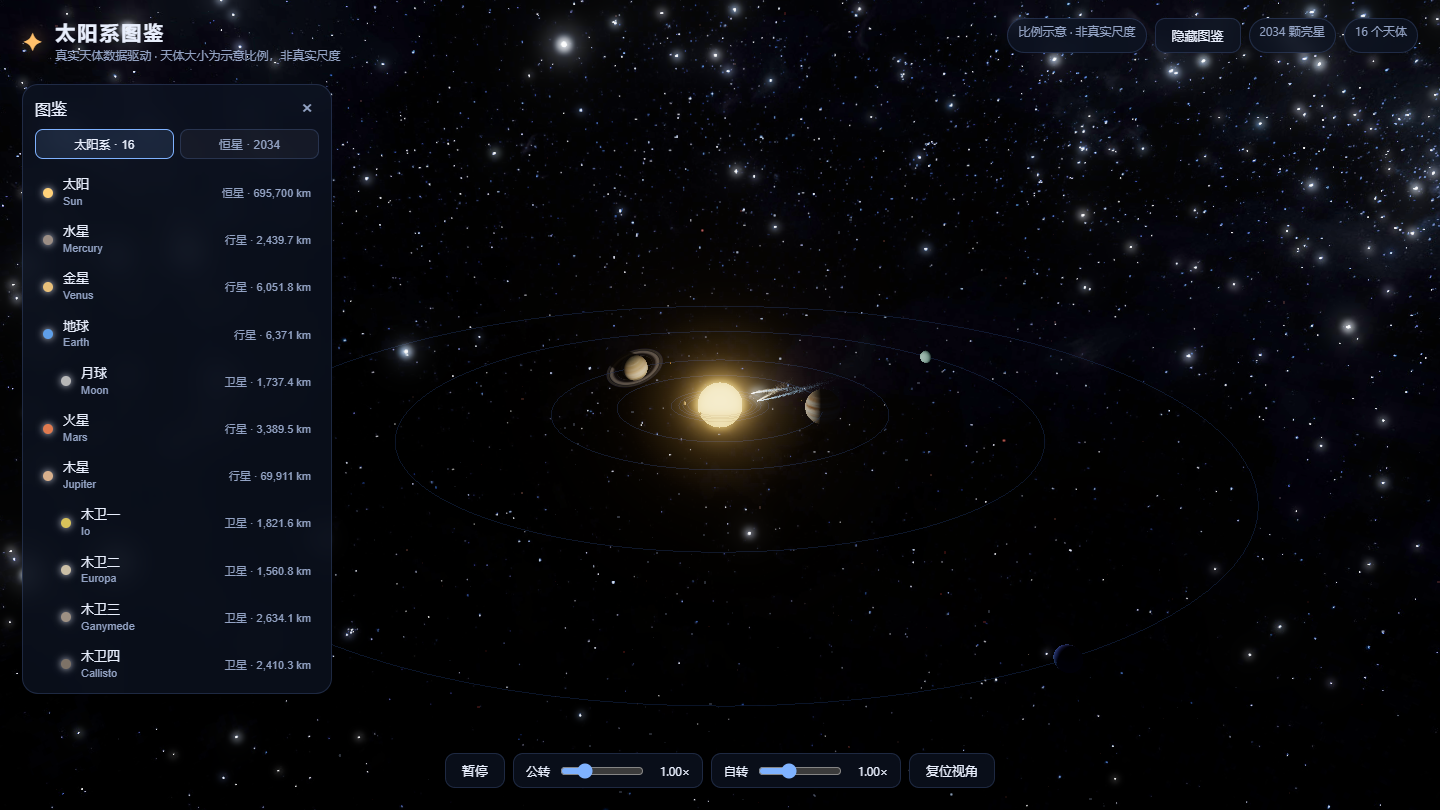
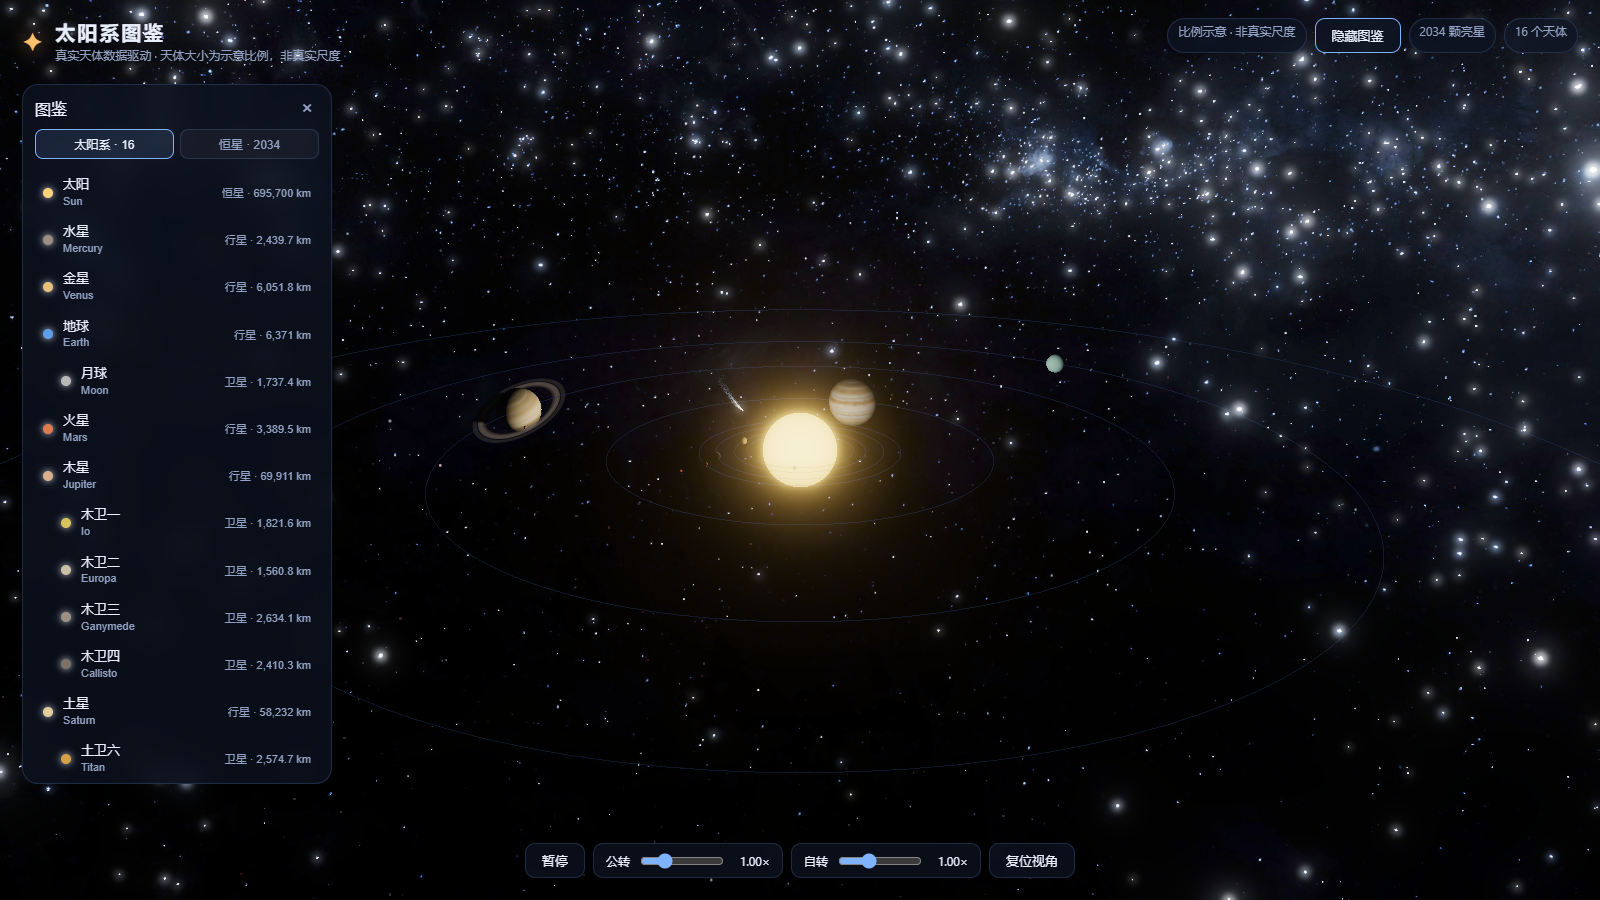
调整行星轨道间距避免穿模，彗星改为从太阳系外缘进入
- 新增 systemExtent / planetOrbitRadii：按本体、土星环（2.3 倍）与最外层卫星轨道取最大占位，相邻行星至少留出双方占位再外加 3 个场景单位
- 轨道半径：水星 24.26、金星 29.87、地球 38.20、火星 45.85、木星 86.87、土星 160.41、天王星 231.20、海王星 350.55
- 哈雷与恩克初始相位改到远日点附近（π+0.08 / π+0.12），分别从海王星轨道外、火星与木星之间进入太阳系
- 重拍桌面全景与移动端截图

diff --git a/src/three/UniverseScene.ts b/src/three/UniverseScene.ts
@@ -127,6 +127,45 @@ function orbitRadius(au: number): number {
   return 20 + au * 11
 }
 
+/**
+ * 行星系统的实际占位半径：本体、行星环、最外层卫星轨道三者取最大。
+ * 土星环外径是本体半径的 2.3 倍，木星最外层的木卫四轨道达到木星半径的 2.75 倍，
+ * 这些「看不见的边界」比本体大得多，只按本体算间距会让卫星轨道扫进隔壁行星。
+ */
+function systemExtent(def: BodyDef): number {
+  const bodyRadius = displayRadius(def.radiusKm)
+  if (def.kind !== 'planet') return bodyRadius
+  let extent = bodyRadius
+  if (def.id === 'saturn') extent = Math.max(extent, bodyRadius * 2.3)
+  for (const moon of BODIES) {
+    if (moon.parent !== def.id) continue
+    const factor = MOON_ORBIT_FACTOR[moon.id] ?? 1.8
+    extent = Math.max(extent, bodyRadius * factor + satelliteRadius(moon.radiusKm))
+  }
+  return extent
+}
+
+/**
+ * 行星轨道半径表：真实 AU 映射优先，但相邻行星之间必须留出双方系统占位再外加 3 个单位的余量。
+ * 内行星按真实间距换算到场景里过窄（金星 27.95 与地球 31 只差 3.05，
+ * 而两者半径之和已有 3.62），公转时必然互相穿过，因此取两者中较大的半径。
+ */
+function planetOrbitRadii(): Map<string, number> {
+  const radii = new Map<string, number>()
+  // 从太阳表面起算：太阳本体半径已经占掉 17 个场景单位。
+  let prevRadius = 0
+  let prevExtent = displayRadius(695700)
+  for (const def of BODIES) {
+    if (def.kind !== 'planet') continue
+    const extent = systemExtent(def)
+    const radius = Math.max(orbitRadius(def.au), prevRadius + prevExtent + extent + 3)
+    radii.set(def.id, radius)
+    prevRadius = radius
+    prevExtent = extent
+  }
+  return radii
+}
+
 /** 生成巨行星云带贴图：水平条带 + 随机亮度，用 alpha 通道勾出云带形状。 */
 function cloudTexture(): THREE.CanvasTexture {
   const w = 512
@@ -524,6 +563,8 @@ export class UniverseScene {
   /** 创建太阳与各行星网格、轨道线与自转/公转参数。 */
   private buildBodies(): void {
     const loader = new THREE.TextureLoader()
+    // 一次性算好所有行星的轨道半径，保证相邻行星系统之间互不穿插。
+    const orbitRadii = planetOrbitRadii()
 
     for (const def of BODIES) {
       const radius = def.kind === 'moon' ? satelliteRadius(def.radiusKm) : displayRadius(def.radiusKm)
@@ -609,7 +650,7 @@ export class UniverseScene {
         def,
         mesh,
         displayRadius: radius,
-        orbitRadius: isSun ? 0 : isMoon ? 0 : orbitRadius(def.au),
+        orbitRadius: isSun || isMoon ? 0 : (orbitRadii.get(def.id) ?? orbitRadius(def.au)),
         angle: START_ANGLE[def.id] ?? 0,
         // 自转速度：2π / 自转周期（天）× 时间缩放。
         // 注意不要再按 retrograde 取负号：金星 177.4°、天王星 97.8° 的倾角本身
@@ -903,9 +944,12 @@ export class UniverseScene {
     // 公转方向：哈雷轨道倾角 162.3°，是太阳系里著名的逆行彗星（dir = -1）；
     // 恩克倾角 11.8°，与行星同向顺行（dir = +1）。
     // 此前两颗彗星的位置公式 z 用 +sin（行星用 -sin），导致它们一律逆行。
+    // 初始相位取远日点附近（π）：两颗彗星都从太阳系外缘向内运动，而不是凭空出现在行星之间。
+    // 哈雷远日点 35.1 AU 已在海王星轨道之外；恩克的真实轨道最远只到 4.08 AU（火星与木星之间），
+    // 这是它轨道的上限，因此它表现为从内太阳系外缘飞入。
     const defs = [
-      { q: 0.586, Q: 35.1, tilt: 0.3, phase: 0.8, periodDays: 27759, dir: -1, head: 0.85, ionSize: 0.34, dustSize: 0.55 },
-      { q: 0.336, Q: 4.08, tilt: 0.14, phase: 0.5, periodDays: 1205, dir: 1, head: 0.72, ionSize: 0.3, dustSize: 0.48 },
+      { q: 0.586, Q: 35.1, tilt: 0.3, phase: Math.PI + 0.08, periodDays: 27759, dir: -1, head: 0.85, ionSize: 0.34, dustSize: 0.55 },
+      { q: 0.336, Q: 4.08, tilt: 0.14, phase: Math.PI + 0.12, periodDays: 1205, dir: 1, head: 0.72, ionSize: 0.3, dustSize: 0.48 },
     ]
     // 粒子池容量：按「发射率 × 寿命」估算，保证正常循环而不是互相顶替。
     const ION_N = 900
